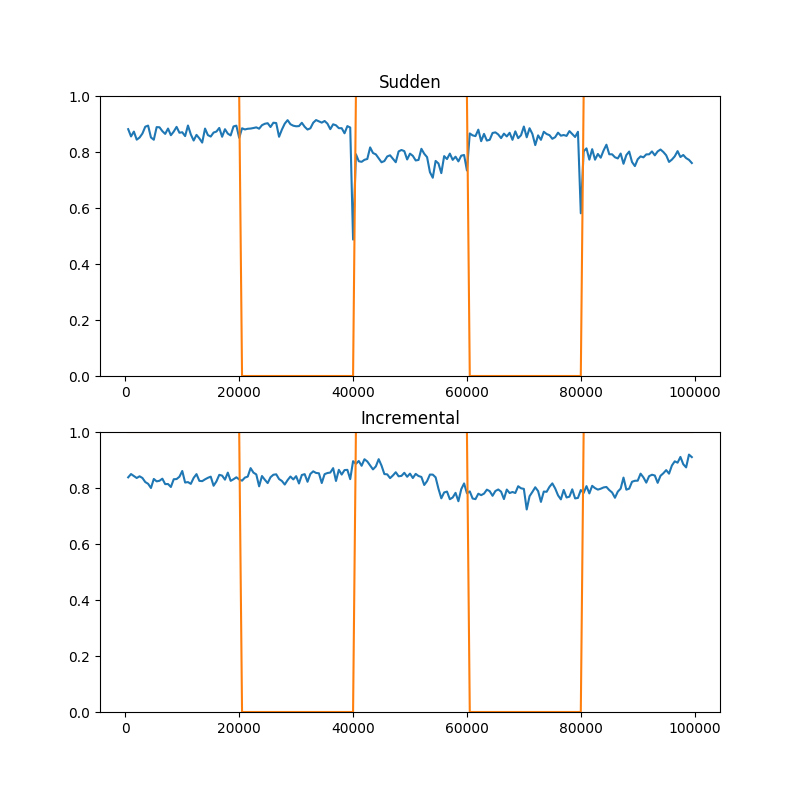
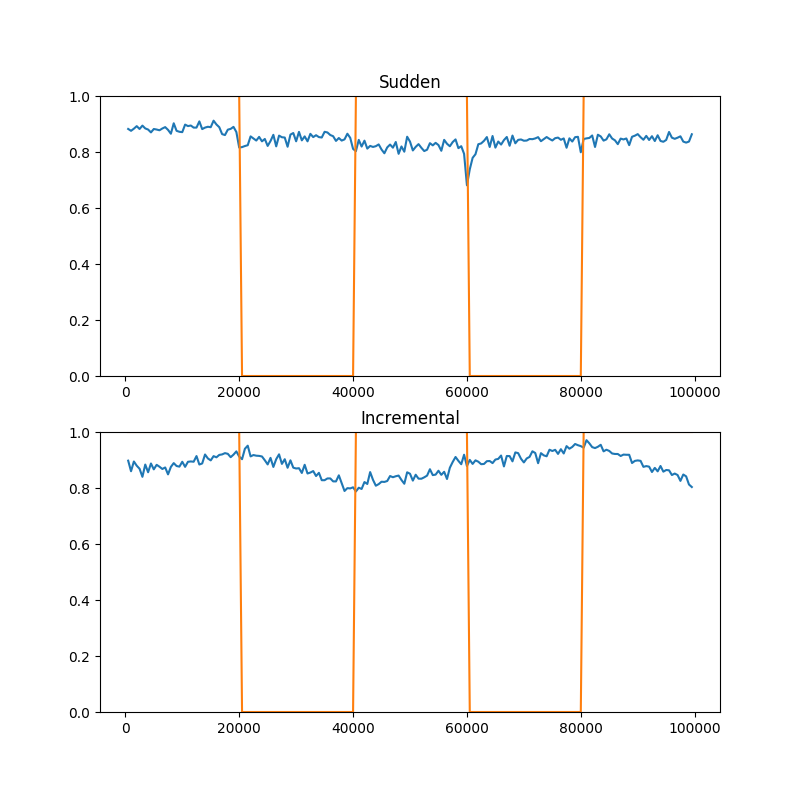
Manhattan, macierz regionow kompetencji

Changed region(s): [[0.1562, 0.5625, 0.875, 0.625], [0.1562, 0.1562, 0.875, 0.2812], [0.7188, 0.5312, 0.75, 0.5625]]

diff --git a/DumbDelayPool.py b/DumbDelayPool.py
@@ -60,7 +60,21 @@ class DumbDelayPool(BaseEstimator, ClassifierMixin):
         if _check_partial_fit_first_call(self, classes):
             self.classes_ = classes
             self.ensemble_ = []
+            self.previous_X = self.X_
+            self.previous_y = self.y_
 
+        # Each clf prediction for previous chunk
+        # prev_decision_matrix = self.previous_decision_matrix()
+
+        # Manhattan distance from each test instance to the previous chunk
+        # manhattan_distance_matrix = self.manhattan_distance(X)
+
+        # Region of competence for each test instance
+        # competence_region = self.region_of_competence(manhattan_distance_matrix, n_neighbors=5)
+
+        # Copy the old chunk
+        self.previous_X = self.X_
+        self.previous_y = self.y_
 
         # Preparing and training new candidate
         self.classes_ = classes
@@ -71,6 +85,21 @@ class DumbDelayPool(BaseEstimator, ClassifierMixin):
         # Prune oldest
         if len(self.ensemble_) > self.ensemble_size:
             del self.ensemble_[0]
+
+    def previous_decision_matrix(self):
+        """Ensemble decision matrix for the previous chunk"""
+        return np.array([member_clf.predict(self.previous_X)
+                         for member_clf in self.ensemble_])
+
+    def manhattan_distance(self, X):
+        """Manhattan distance from each new instance to the previous chunk instances"""
+        return np.array([np.sum(np.absolute(self.previous_X - instance), axis=1)
+                         for instance in X])
+
+    def region_of_competence(self, manhattan_distance_matrix, n_neighbors=5):
+        """ Region of competence based on Manhattan
+        distance from each new instance to the previous chunk"""
+        return np.argsort(manhattan_distance_matrix)[:, :n_neighbors]
 
     def ensemble_support_matrix(self, X):
         """ESM."""

diff --git a/experiment.py b/experiment.py
@@ -14,7 +14,7 @@ fig, ax = plt.subplots(2, 1, figsize=(8, 8))
 
 for i, stream_n in enumerate(streams):
     stream = streams[stream_n]
-    clf = DumbDelayPool(ensemble_size=1)
+    clf = DumbDelayPool(ensemble_size=5)
     learner = TestAndTrain(stream, clf)
     learner.run()
 
